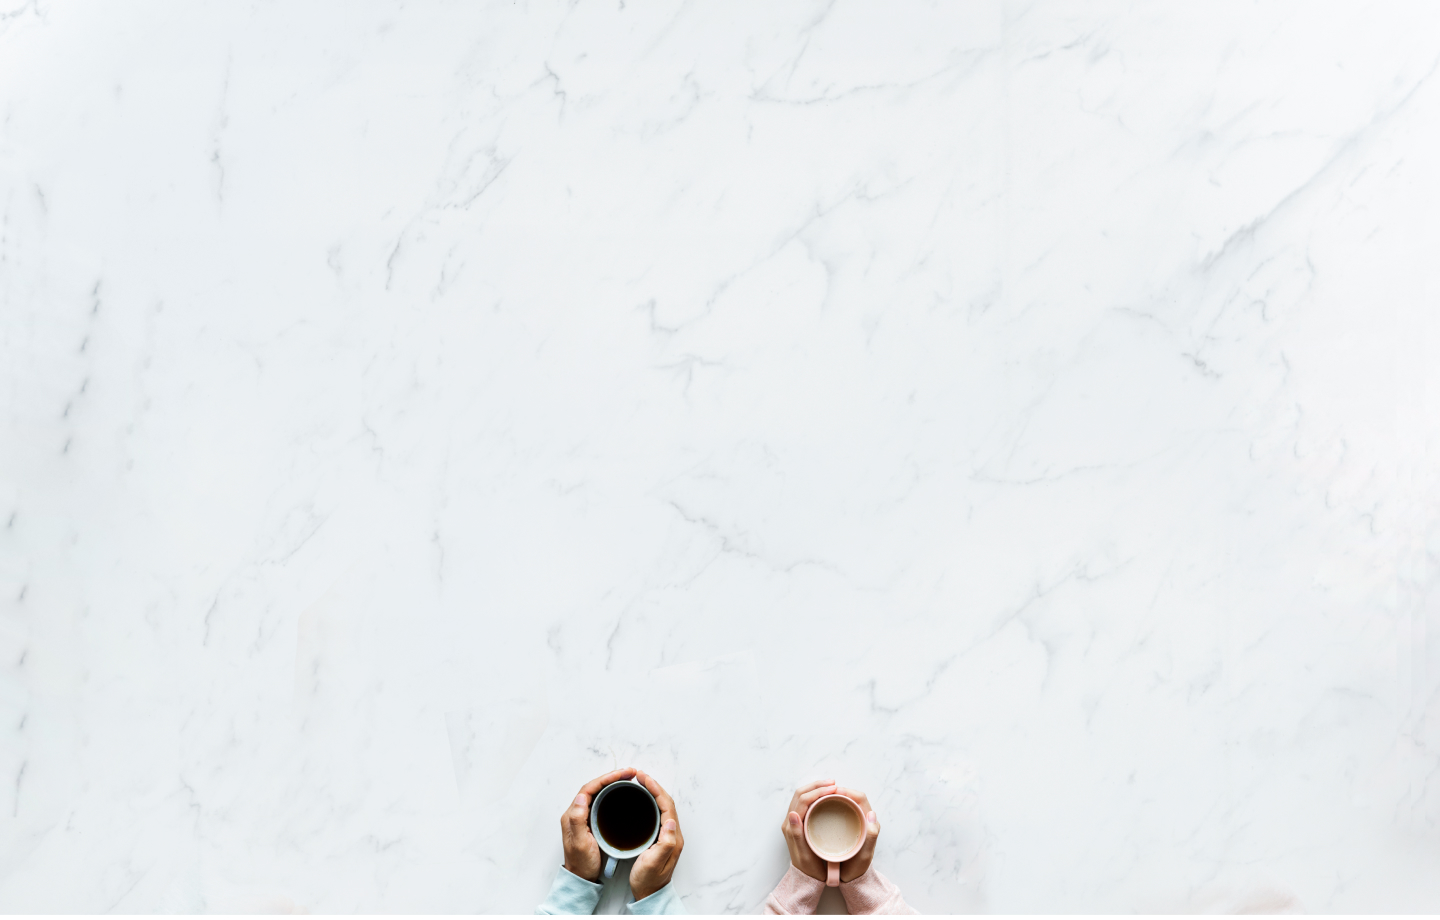
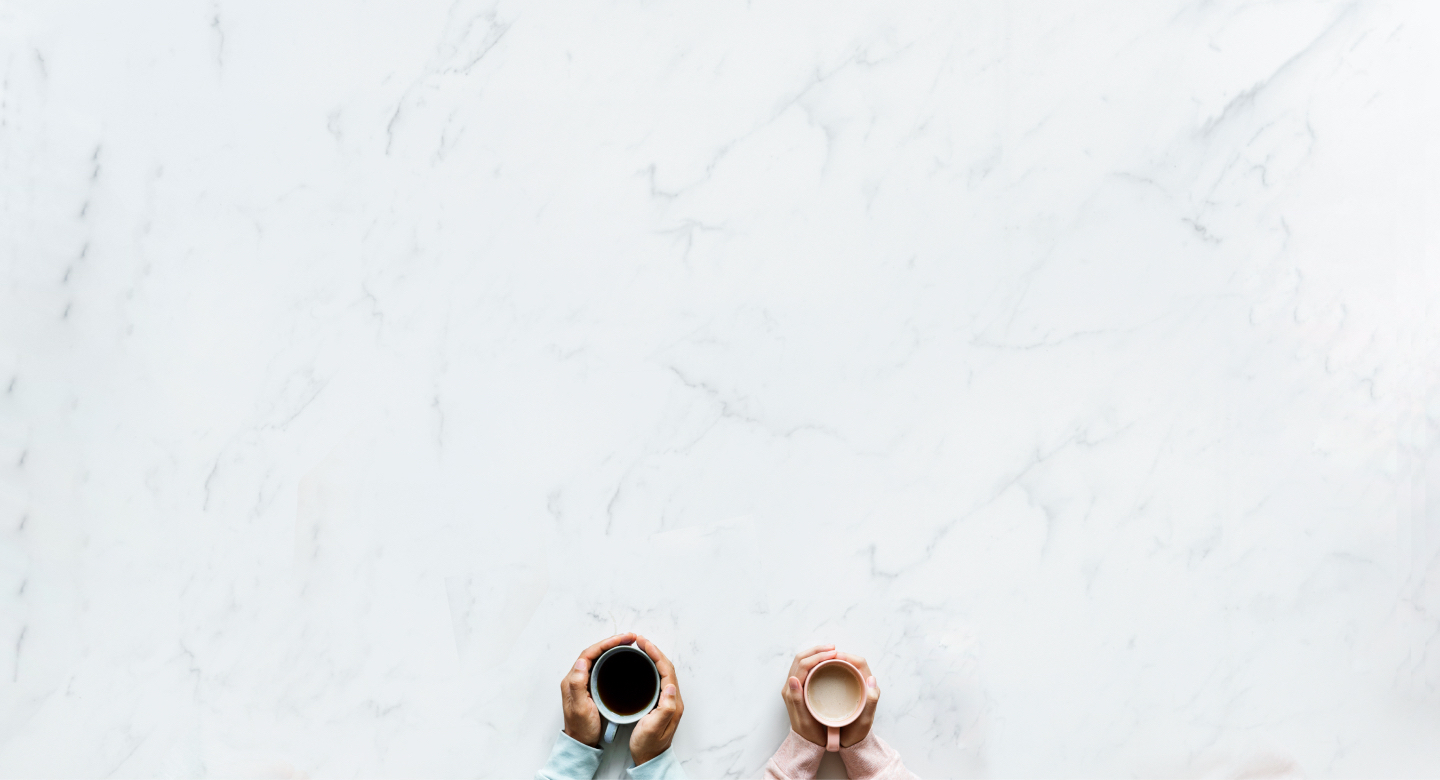
fix blank space what we offer

diff --git a/src/pages/components/offer/offer.component.scss b/src/pages/components/offer/offer.component.scss
@@ -6,8 +6,8 @@
 	background-image: url("../../../assets/images/offer/backgroud.jpg");
 	background-size: cover;
 	background-repeat: no-repeat;
-	aspect-ratio: 1440 / 920;
-	padding-top: 100px;
+	aspect-ratio: 1440 / 780;
+	padding-top: 20px;
 	justify-content: flex-start;
 	align-items: center;
 	flex-direction: column;
